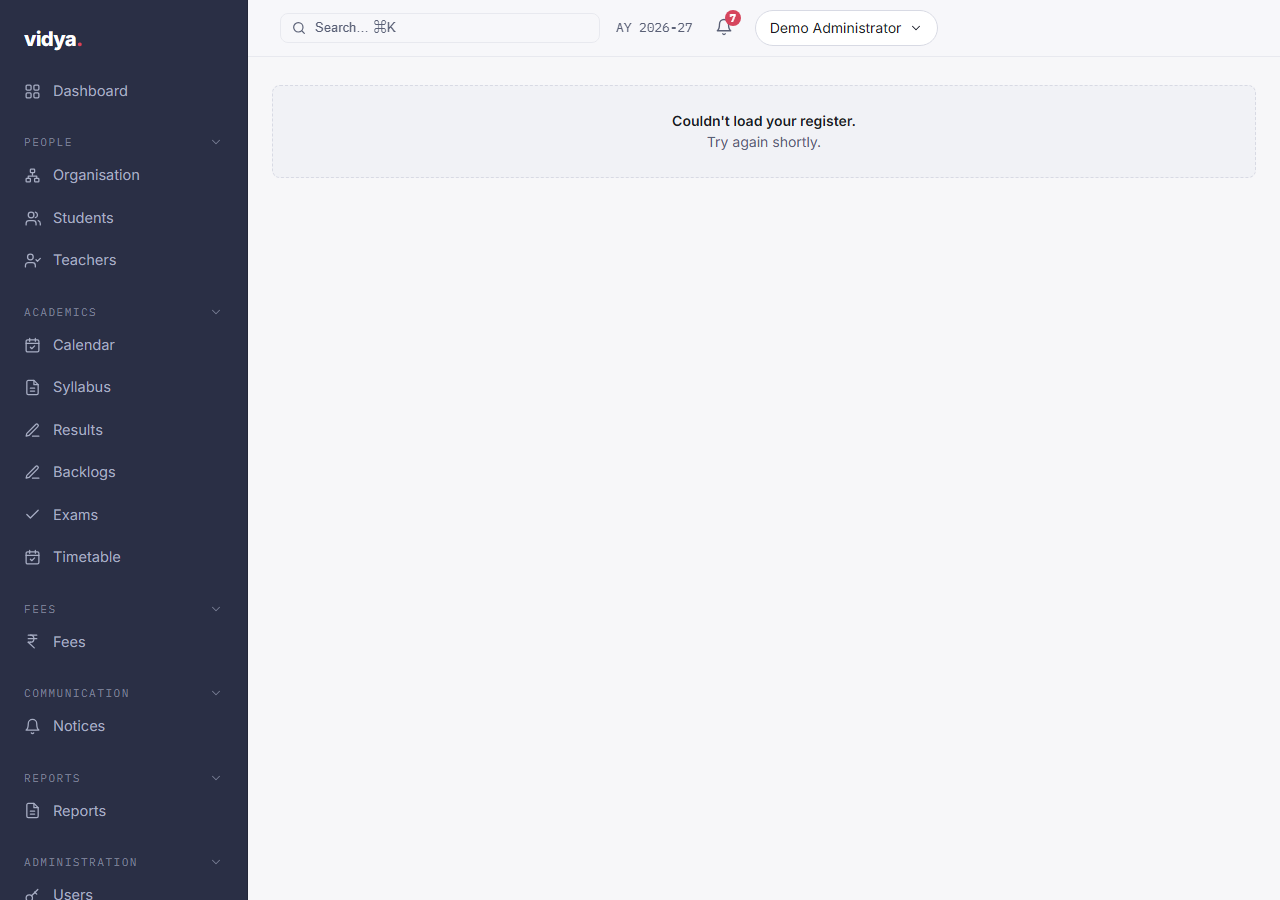
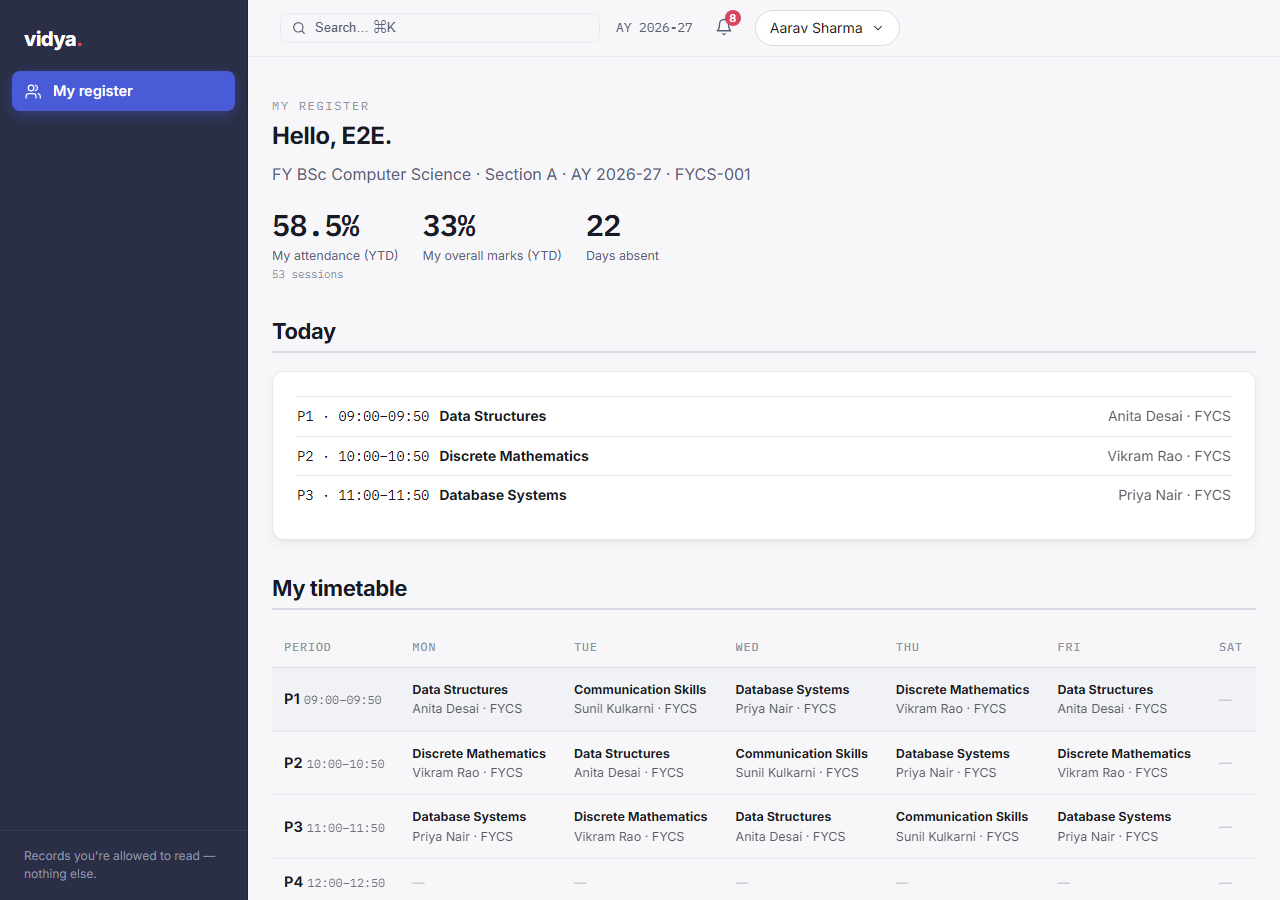
fix(shots): capture /portal as the student, not the admin
The S2b evidence bundle shot every screen as demo-admin, but the portal API is
STUDENT_ONLY, so s2b-portal-{1280,360}.png captured a 403 fallback rather than
the screen -- one of eight domains was evidenced by a picture of an error.

The shots script now logs in as demo-student for /portal specifically, and warns
if the error state still appears so a future run can't silently regress to the
same non-evidence. Screenshots regenerated: the portal now shows the eyebrow,
the three StatCards (the RingStat->StatCard swap), the Today timeline and the
weekly timetable grid.

Evidence doc updated to describe what the shot now shows, keeping a note of the
original mistake. The discarded shot did incidentally confirm finding I2 -- the
copy it rendered was portal's own restored "Couldn't load your register.", not
AsyncState's generic "Couldn't load this.".

diff --git a/tests/shots/s2b.shots.ts b/tests/shots/s2b.shots.ts
@@ -12,12 +12,14 @@ import { mkdirSync } from "node:fs";
 
 const baseURL = process.env.PLAYWRIGHT_BASE_URL ?? "http://localhost:3001";
 const outDir = "docs/assignment-10";
-const CREDS = { username: "demo-admin", password: "demo-admin-pass-2026!" };
+const ADMIN = { username: "demo-admin", password: "demo-admin-pass-2026!" };
+/** /portal is STUDENT_ONLY — shooting it as the admin yields a 403, not the screen. */
+const STUDENT = { username: "demo-student", password: "demo-student-pass-2026!" };
 
 const DESKTOP = { width: 1280, height: 900 };
 const MOBILE = { width: 360, height: 740 };
 
-/** One migrated screen per task-domain (see the S2b batch table). */
+/** One migrated screen per task-domain (see the S2b batch table), all admin-visible. */
 const SCREENS: { name: string; path: string }[] = [
   { name: "students", path: "/manage/students" }, // PEOPLE (B1)
   { name: "attendance", path: "/manage/attendance" }, // TEACH (B2)
@@ -26,14 +28,13 @@ const SCREENS: { name: string; path: string }[] = [
   { name: "notices", path: "/manage/notices" }, // COMMUNICATION (B4)
   { name: "reports", path: "/manage/reports" }, // REPORTS (B4)
   { name: "users", path: "/manage/users" }, // ADMINISTRATION (B5)
-  { name: "portal", path: "/portal" }, // PORTAL (B6)
 ];
 
-async function login(page: Page) {
+async function login(page: Page, creds: { username: string; password: string } = ADMIN) {
   await page.goto(`${baseURL}/login`);
   await page.waitForSelector("#username");
-  await page.fill("#username", CREDS.username);
-  await page.fill("#password", CREDS.password);
+  await page.fill("#username", creds.username);
+  await page.fill("#password", creds.password);
   await page.click('button[type="submit"]');
   await page.waitForURL((u) => !u.pathname.startsWith("/login"), { timeout: 15000 });
   await page.waitForLoadState("networkidle");
@@ -58,6 +59,19 @@ async function screensAt(browser: Browser, viewport: typeof DESKTOP, suffix: str
     await settle(page);
     await shot(page, `s2b-${name}-${suffix}.png`);
   }
+  await page.close();
+}
+
+/** PORTAL (B6) — must authenticate as the student, or the screen 403s. */
+async function portalAt(browser: Browser, viewport: typeof DESKTOP, suffix: string) {
+  const page = await browser.newPage({ viewport });
+  await login(page, STUDENT);
+  await page.goto(`${baseURL}/portal`);
+  await settle(page);
+  if (await page.getByText(/Couldn't load your register/i).count()) {
+    console.warn("!! /portal rendered its error state — check the student's seed data");
+  }
+  await shot(page, `s2b-portal-${suffix}.png`);
   await page.close();
 }
 
@@ -112,6 +126,8 @@ async function main() {
   try {
     await screensAt(browser, DESKTOP, "1280");
     await screensAt(browser, MOBILE, "360");
+    await portalAt(browser, DESKTOP, "1280");
+    await portalAt(browser, MOBILE, "360");
     await slideOverAt(browser, DESKTOP, "1280");
     await slideOverAt(browser, MOBILE, "360");
     await slideOverAt(browser, DESKTOP, "1280", true); // dark mode — I6 avatar ink

diff --git a/docs/assignment-10/s2b-evidence.md b/docs/assignment-10/s2b-evidence.md
@@ -94,7 +94,7 @@ fee-receipt print shot. **I opened every image below before writing this row.**
 | `s2b-notices-1280.png` / `-360.png` | Noticeboard (COMMUNICATION domain) — real seeded notices (Term 1 exams, Ganesh Chaturthi, Annual Sports Day, …) with audience/created/publish/status columns and working Delete buttons. |
 | `s2b-reports-1280.png` / `-360.png` | Reports (REPORTS domain) — the Generate panel (type/section/student/format) plus a table of real completed `hall-ticket` report rows with Download actions. |
 | `s2b-users-1280.png` / `-360.png` | Sign-ins & access (ADMINISTRATION domain) — real seeded accounts (`demo-accountant`, `demo-admin`, `demo-ct-fybcom`, …) with roles/status/grants and per-row Reset/Set password/Disable actions. |
-| `s2b-portal-1280.png` / `-360.png` | **Shows an error state**: "Couldn't load your register. Try again shortly." This is `portal.me` correctly 403-ing — the portal API is `STUDENT_ONLY` by definition (`packages/modules/portal/src/definition.ts:22`) and every shot in this run authenticates once as `demo-admin`, who is not a student. **This is the expected access-denial render for the wrong role, not a broken portal screen** — but it also means this screenshot does *not* show what a student actually sees. The one piece of evidence that the portal UI itself renders correctly for its real audience is e2e J5 ("student portal surfaces every self-scoped view"), which passed, and the `test:ui` portal-page tests. Flagging this gap honestly rather than presenting an error screenshot as a working-UI screenshot. |
+| `s2b-portal-1280.png` / `-360.png` | My register (PORTAL domain) as the **student** `demo-student` — eyebrow "MY REGISTER", greeting, three `StatCard`s (58.5% attendance / 33% overall marks / 22 days absent — the `RingStat`→`StatCard` swap), the Today timeline, and the weekly "My timetable" grid. <br/>*First run of this bundle shot the portal as `demo-admin` and captured a 403 fallback ("Couldn't load your register.") instead of the screen — the portal API is `STUDENT_ONLY` (`packages/modules/portal/src/definition.ts:22`). `tests/shots/s2b.shots.ts` now authenticates as the student for this screen specifically, and warns if the error state appears. The discarded shot did incidentally confirm finding I2: the copy shown was portal's own restored "Couldn't load your register.", not `AsyncState`'s generic "Couldn't load this."* |
 | `s2b-slideover-1280.png` | `StudentSlideOver` open over `/manage/students` (row "View"): header, avatar ("AV" on a brand-blue gradient with **light** text), Overview/Attendance/Marks/Fees tabs, Status card, class-teacher-view guardian/phone/DOB block with the "admin only" field-lock notice, status-change control. |
 | `s2b-slideover-360.png` | Same SlideOver content reflows correctly full-width on a 360px viewport (it becomes the whole screen, table beneath is not visible — expected). |
 | `s2b-slideover-dark-1280.png` | Same SlideOver under `prefers-color-scheme: dark` — dark surfaces, ink inverted correctly, and the avatar initials remain legible. This is the shot that stands in for the I6 fix (avatar-initials contrast): the initials render in light text against the gradient in both light and dark mode, consistent with `40177a4`/`84b52b8` (per-palette avatar ink, AA contrast) rather than the pre-fix `var(--ink)`-on-gradient combination the final review measured at ~3.1:1. |
